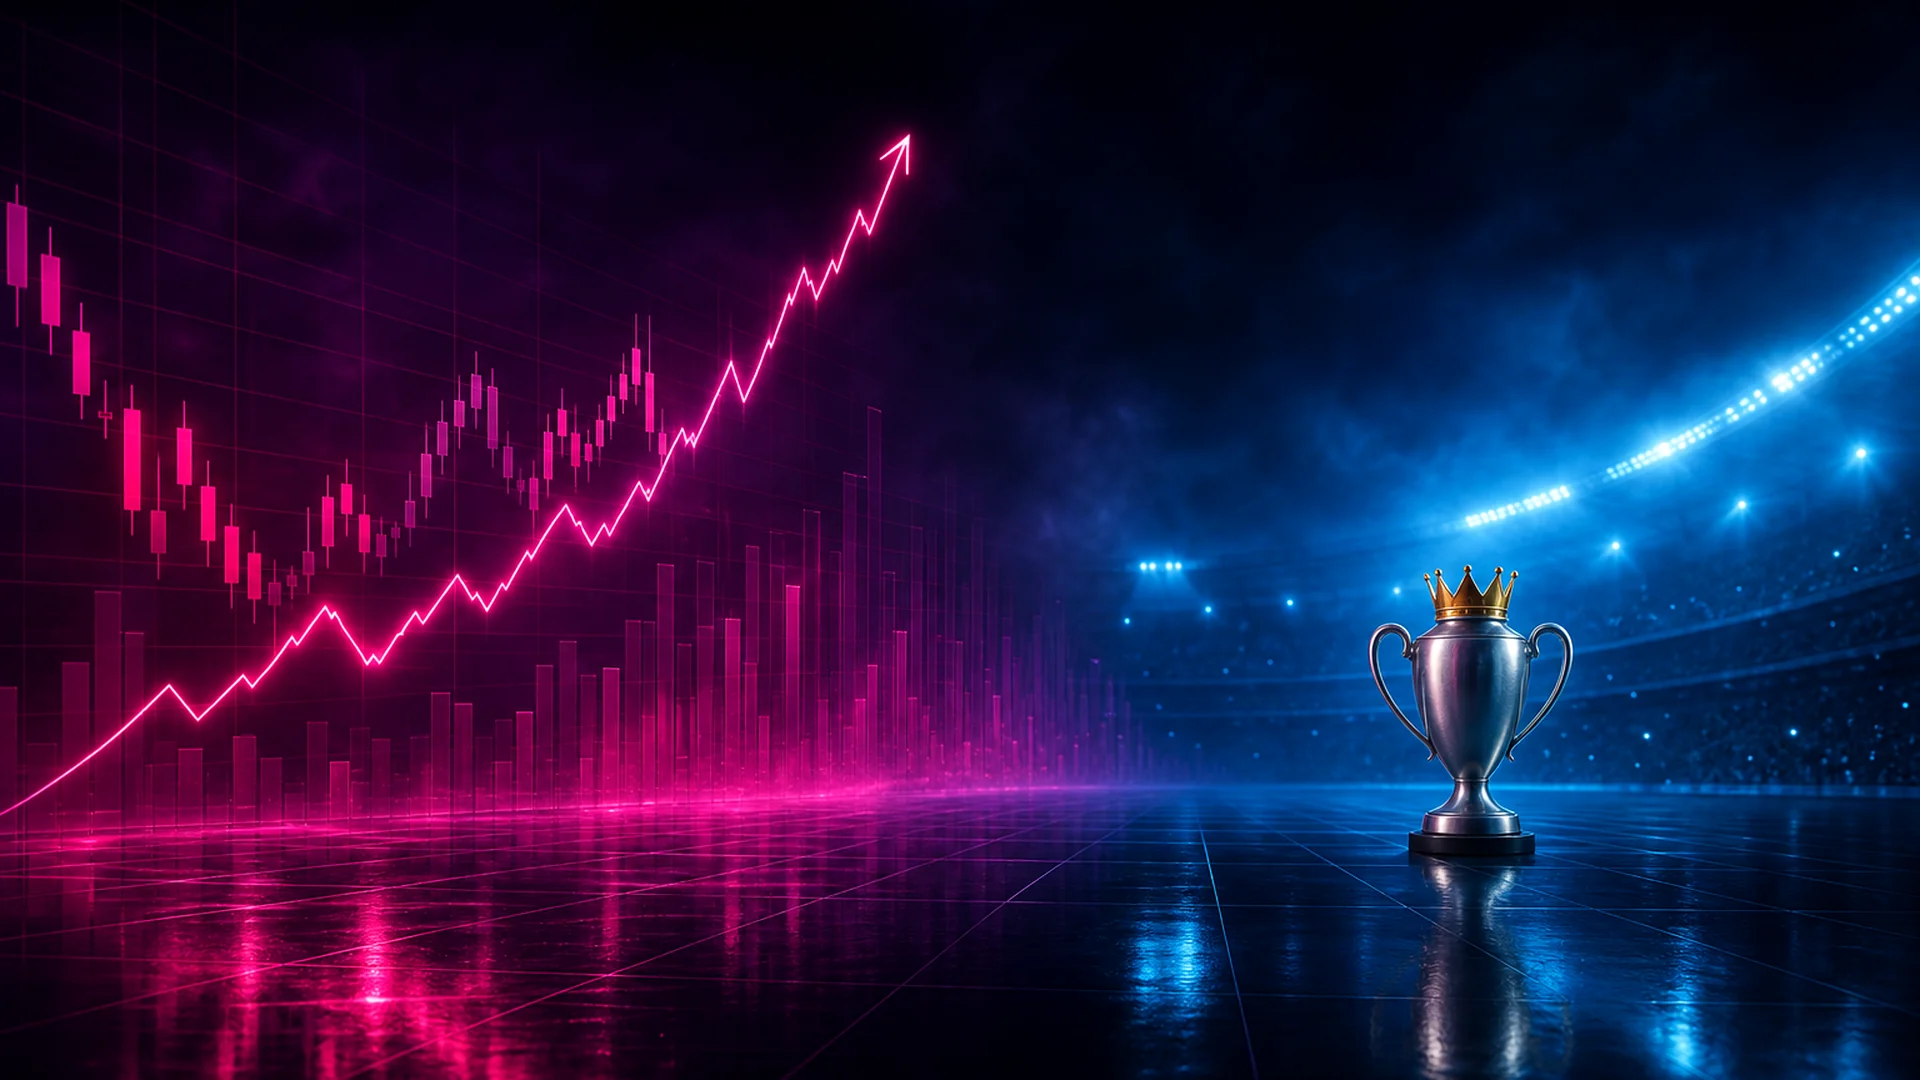
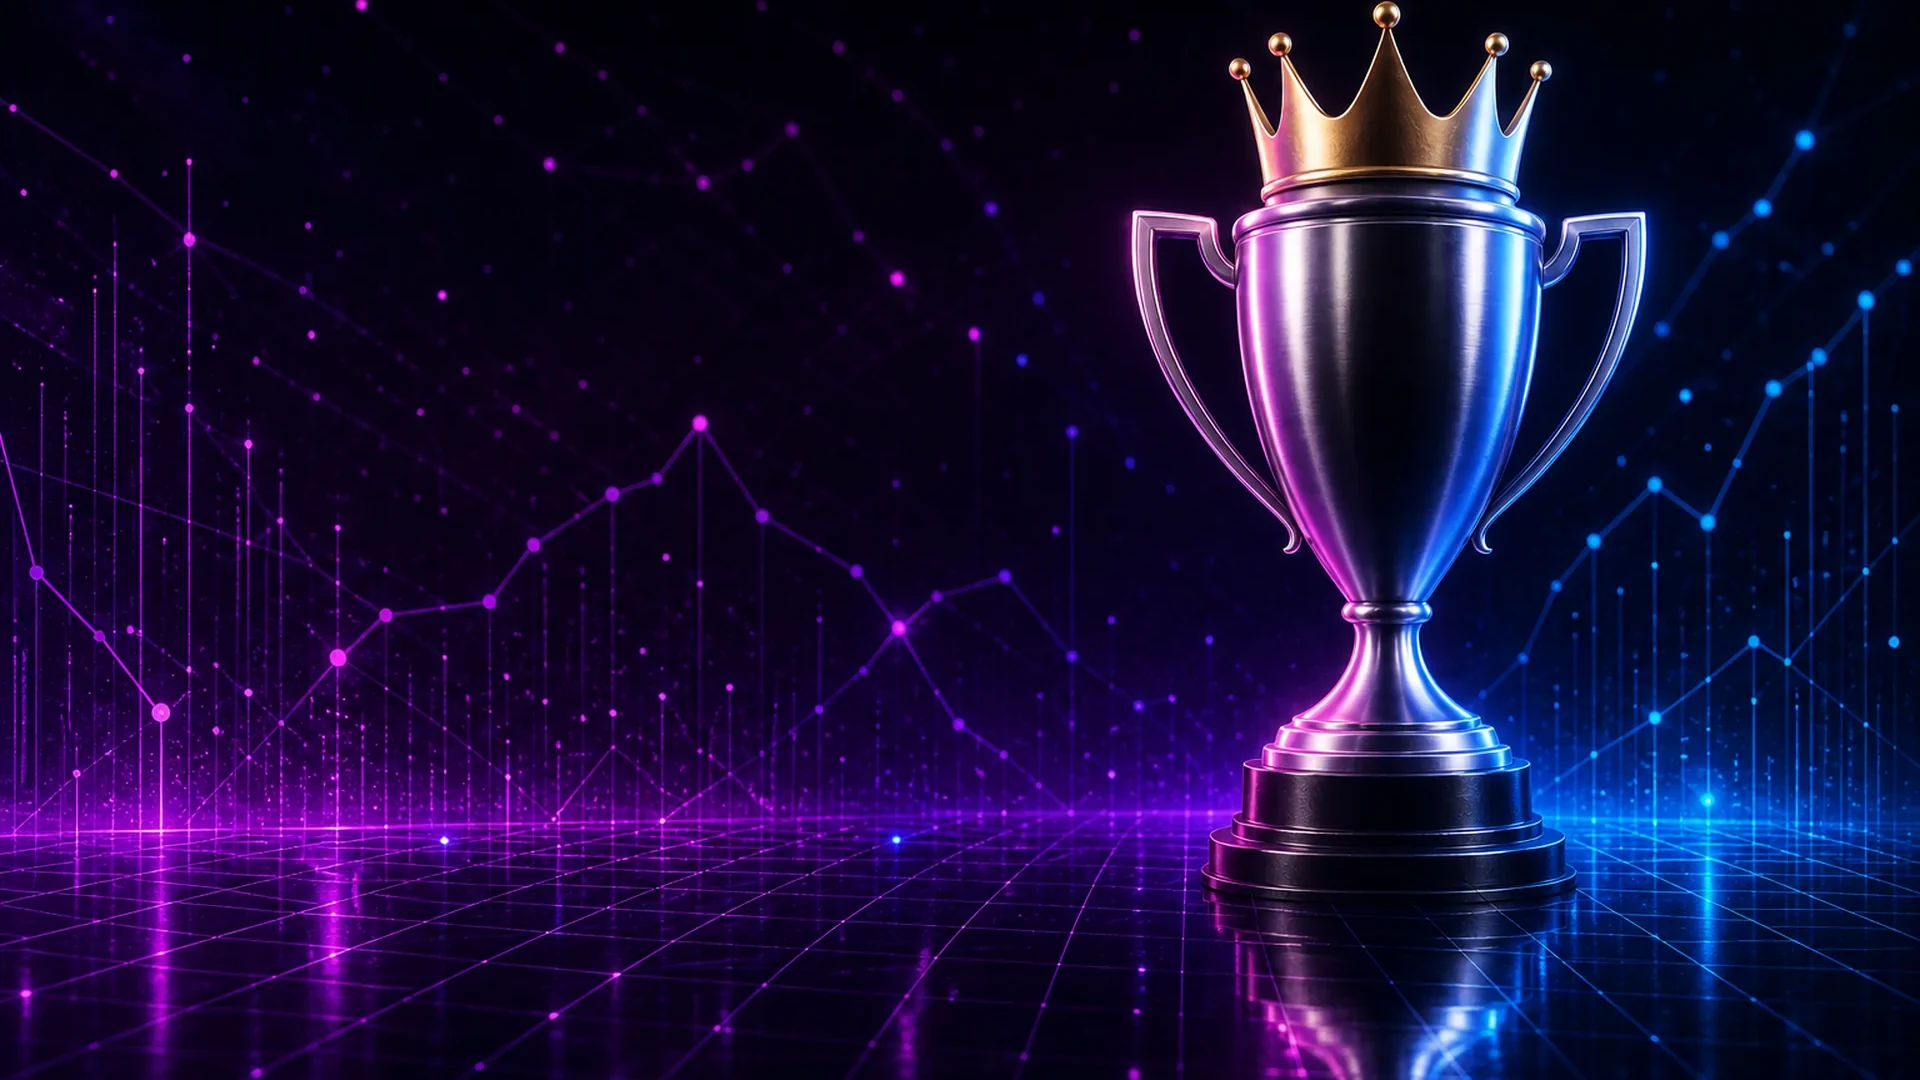
fix(hero): restore pre-purple silver trophy art (#179)
* fix(hero): restore pre-purple silver trophy art

Bring back the a9f20d3 full-bleed silver trophy + gold crown (magenta/
cobalt atmosphere) from before the dark blue/purple metal recolor.
Keep full-bleed object-cover wiring; cache-bust asset URLs.

* docs: note restored a9f20d3 silver trophy in asset manifest

---------

diff --git a/src/components/scl/competition-hero.tsx b/src/components/scl/competition-hero.tsx
@@ -85,10 +85,10 @@ export function CompetitionHero() {
       <picture className="pointer-events-none absolute inset-0 block size-full">
         <source
           media="(min-width: 640px)"
-          srcSet="/assets/scl/leaderboard-trophy-desktop.webp?v=20260717b3"
+          srcSet="/assets/scl/leaderboard-trophy-desktop.webp?v=20260717a9"
         />
         <img
-          src="/assets/scl/leaderboard-trophy-mobile.webp?v=20260717b3"
+          src="/assets/scl/leaderboard-trophy-mobile.webp?v=20260717a9"
           alt=""
           width="1920"
           height="1080"

diff --git a/docs/SCL_ASSET_MANIFEST.md b/docs/SCL_ASSET_MANIFEST.md
@@ -6,10 +6,10 @@ text, metrics, controls, or logos; those remain accessible HTML and code-native 
 Remote sports marks are **self-hosted** (optional) under `public/marks/`, gated by a static
 manifest — never hotlinked. Missing marks always render the monogram/lettermark fallback.
 
-| Asset                             |  Dimensions | Use                         | Treatment                                                                                                    |
-| --------------------------------- | ----------: | --------------------------- | ------------------------------------------------------------------------------------------------------------ |
-| `leaderboard-trophy-desktop.webp` | 1920 x 1080 | Home hero at `sm` and above | Full-bleed magenta markets + cobalt stadium scene; **simple solid** trophy + gold crown (right, ~30% height) |
-| `leaderboard-trophy-mobile.webp`  | 1080 x 1920 | Home hero below `sm`        | Matching portrait; atmosphere to all edges; solid trophy + crown with copy headroom                          |
+| Asset                             |  Dimensions | Use                         | Treatment                                                                                            |
+| --------------------------------- | ----------: | --------------------------- | ---------------------------------------------------------------------------------------------------- |
+| `leaderboard-trophy-desktop.webp` | 1920 x 1080 | Home hero at `sm` and above | Restored silver trophy + gold crown (`a9f20d3`); magenta + cobalt atmosphere (pre dark-purple metal) |
+| `leaderboard-trophy-mobile.webp`  | 1080 x 1920 | Home hero below `sm`        | Matching portrait companion from the same restored art generation                                    |
 
 ## League / team marks (self-hosted)
 

diff --git a/docs/SCL_DEPLOYMENT.md b/docs/SCL_DEPLOYMENT.md
@@ -127,4 +127,4 @@ Vercel **project env vars** (`DATABASE_URL`, `AUTH_SECRET`, …) only configure 
 They do **not** trigger builds. Without a working Option A auto-deploy or a Deploy Hook /
 CLI secrets, merges to `main` will not change the live site.
 
-<!-- deploy-hook check 2026-07-17T20:30:00Z fullbleed magenta-cobalt banner -->
+<!-- deploy-hook check 2026-07-17T20:45:00Z restore a9f20d3 silver trophy -->
